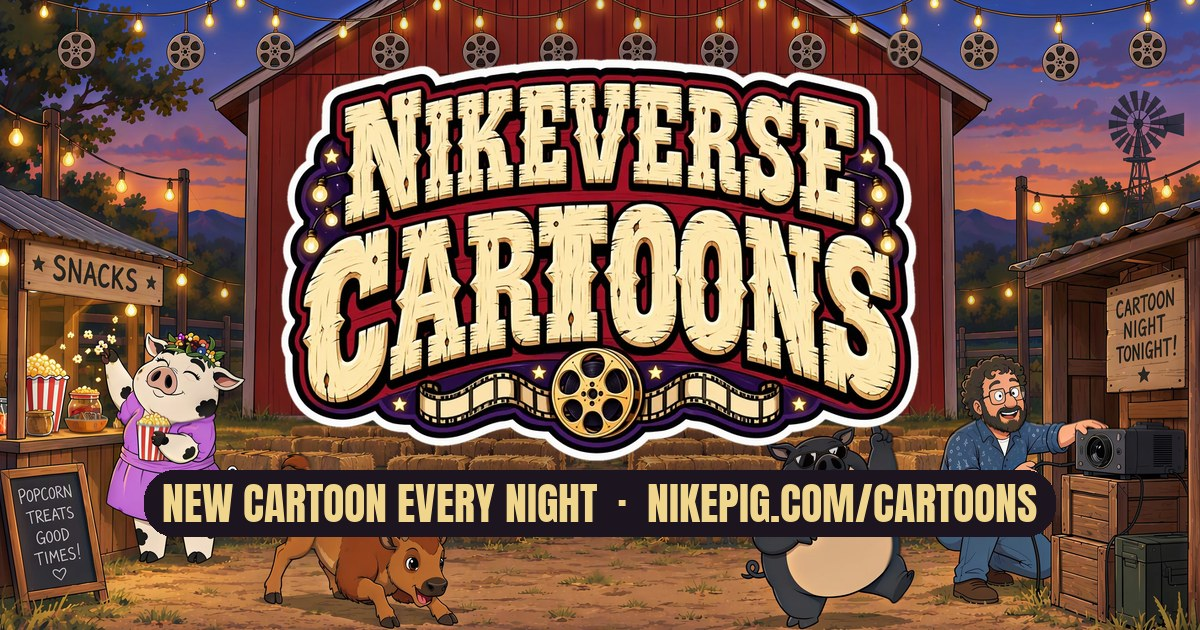
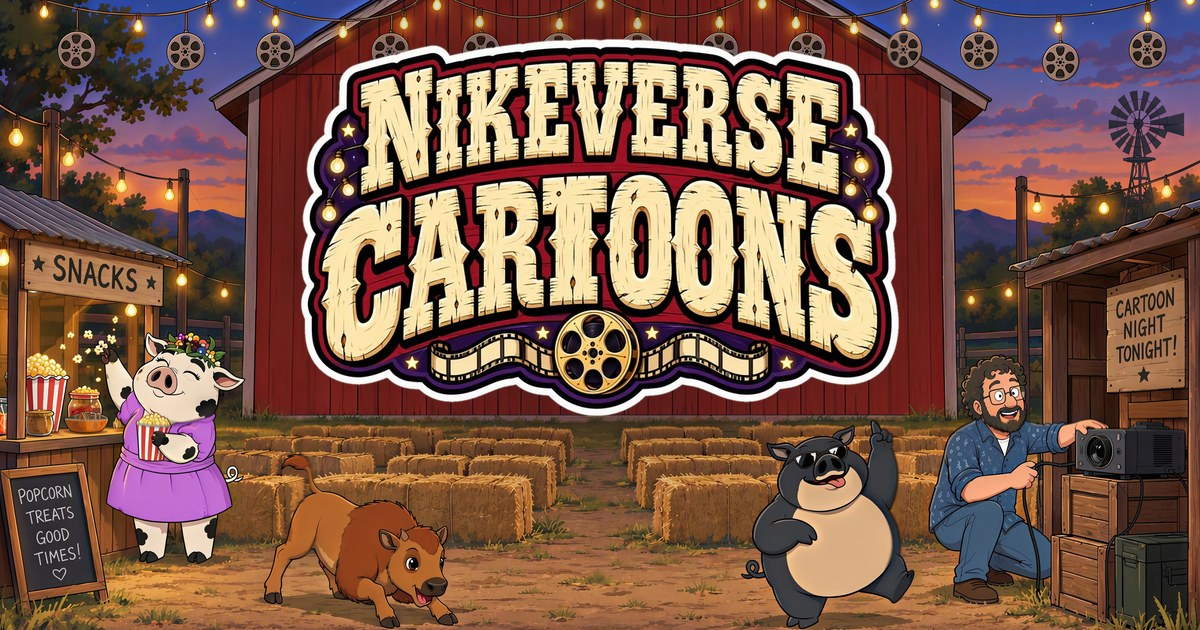
Cartoons share card: title only, no 'every night' promise or URL
Owner request. Share text reworded to match; og:image cache-busted (?v=2).

diff --git a/cartoons/index.html b/cartoons/index.html
@@ -8,17 +8,17 @@
 <meta property="og:type" content="website">
 <meta property="og:site_name" content="$NIKEPIG">
 <meta property="og:title" content="Nikeverse Cartoons — Movie Night at the $NIKEPIG Barn">
-<meta property="og:description" content="A new Nikeverse cartoon every night. Pick a reel and it plays on the barn wall.">
+<meta property="og:description" content="Movie night at the $NIKEPIG barn. Pick a reel and the cartoon plays on the barn wall.">
 <meta property="og:url" content="https://nikepig.com/cartoons/">
-<meta property="og:image" content="https://nikepig.com/cartoons/art/og-cartoons.jpg">
+<meta property="og:image" content="https://nikepig.com/cartoons/art/og-cartoons.jpg?v=2">
 <meta property="og:image:width" content="1200">
 <meta property="og:image:height" content="630">
 <meta property="og:image:alt" content="Nikeverse Cartoons: movie night at the $NIKEPIG barn with Nike, GF Princess, Poppy and Charles">
 <meta name="twitter:card" content="summary_large_image">
 <meta name="twitter:site" content="@NikePig_ADA">
 <meta name="twitter:title" content="Nikeverse Cartoons — Movie Night at the $NIKEPIG Barn">
-<meta name="twitter:description" content="A new Nikeverse cartoon every night. Pick a reel and it plays on the barn wall.">
-<meta name="twitter:image" content="https://nikepig.com/cartoons/art/og-cartoons.jpg">
+<meta name="twitter:description" content="Movie night at the $NIKEPIG barn. Pick a reel and the cartoon plays on the barn wall.">
+<meta name="twitter:image" content="https://nikepig.com/cartoons/art/og-cartoons.jpg?v=2">
 <link rel="icon" href="../icons/pig.png">
 <link href="https://fonts.cdnfonts.com/css/more-sugar" rel="stylesheet">
 <link href="https://fonts.googleapis.com/css2?family=Nunito:wght@400;600;700;800;900&display=swap" rel="stylesheet">

diff --git a/docs/branch-log.md b/docs/branch-log.md
@@ -148,8 +148,8 @@ Playwright).
   font fetches failing under `file://`, unrelated).
 
 ## 2026-09-29 — Cartoons social share card
-- `cartoons/art/og-cartoons.jpg` (1200x630): the barn scene with the Nikeverse Cartoons title sticker and a
-  "NEW CARTOON EVERY NIGHT · NIKEPIG.COM/CARTOONS" pill. `cartoons/index.html` gets Open Graph + Twitter
+- `cartoons/art/og-cartoons.jpg` (1200x630): the barn scene with the Nikeverse Cartoons title sticker only
+  (owner: no "every night" promise and no URL on the image). `cartoons/index.html` gets Open Graph + Twitter
   `summary_large_image` tags pointing at it (absolute https URL).
 - Same day: C15/C16 catalogue entries; Massive Rocket card kept but its Sign Up button removed; Instagram,
   Facebook, TikTok and YouTube links (Simple Icons glyphs) added to the hero row and Join the Herd.
